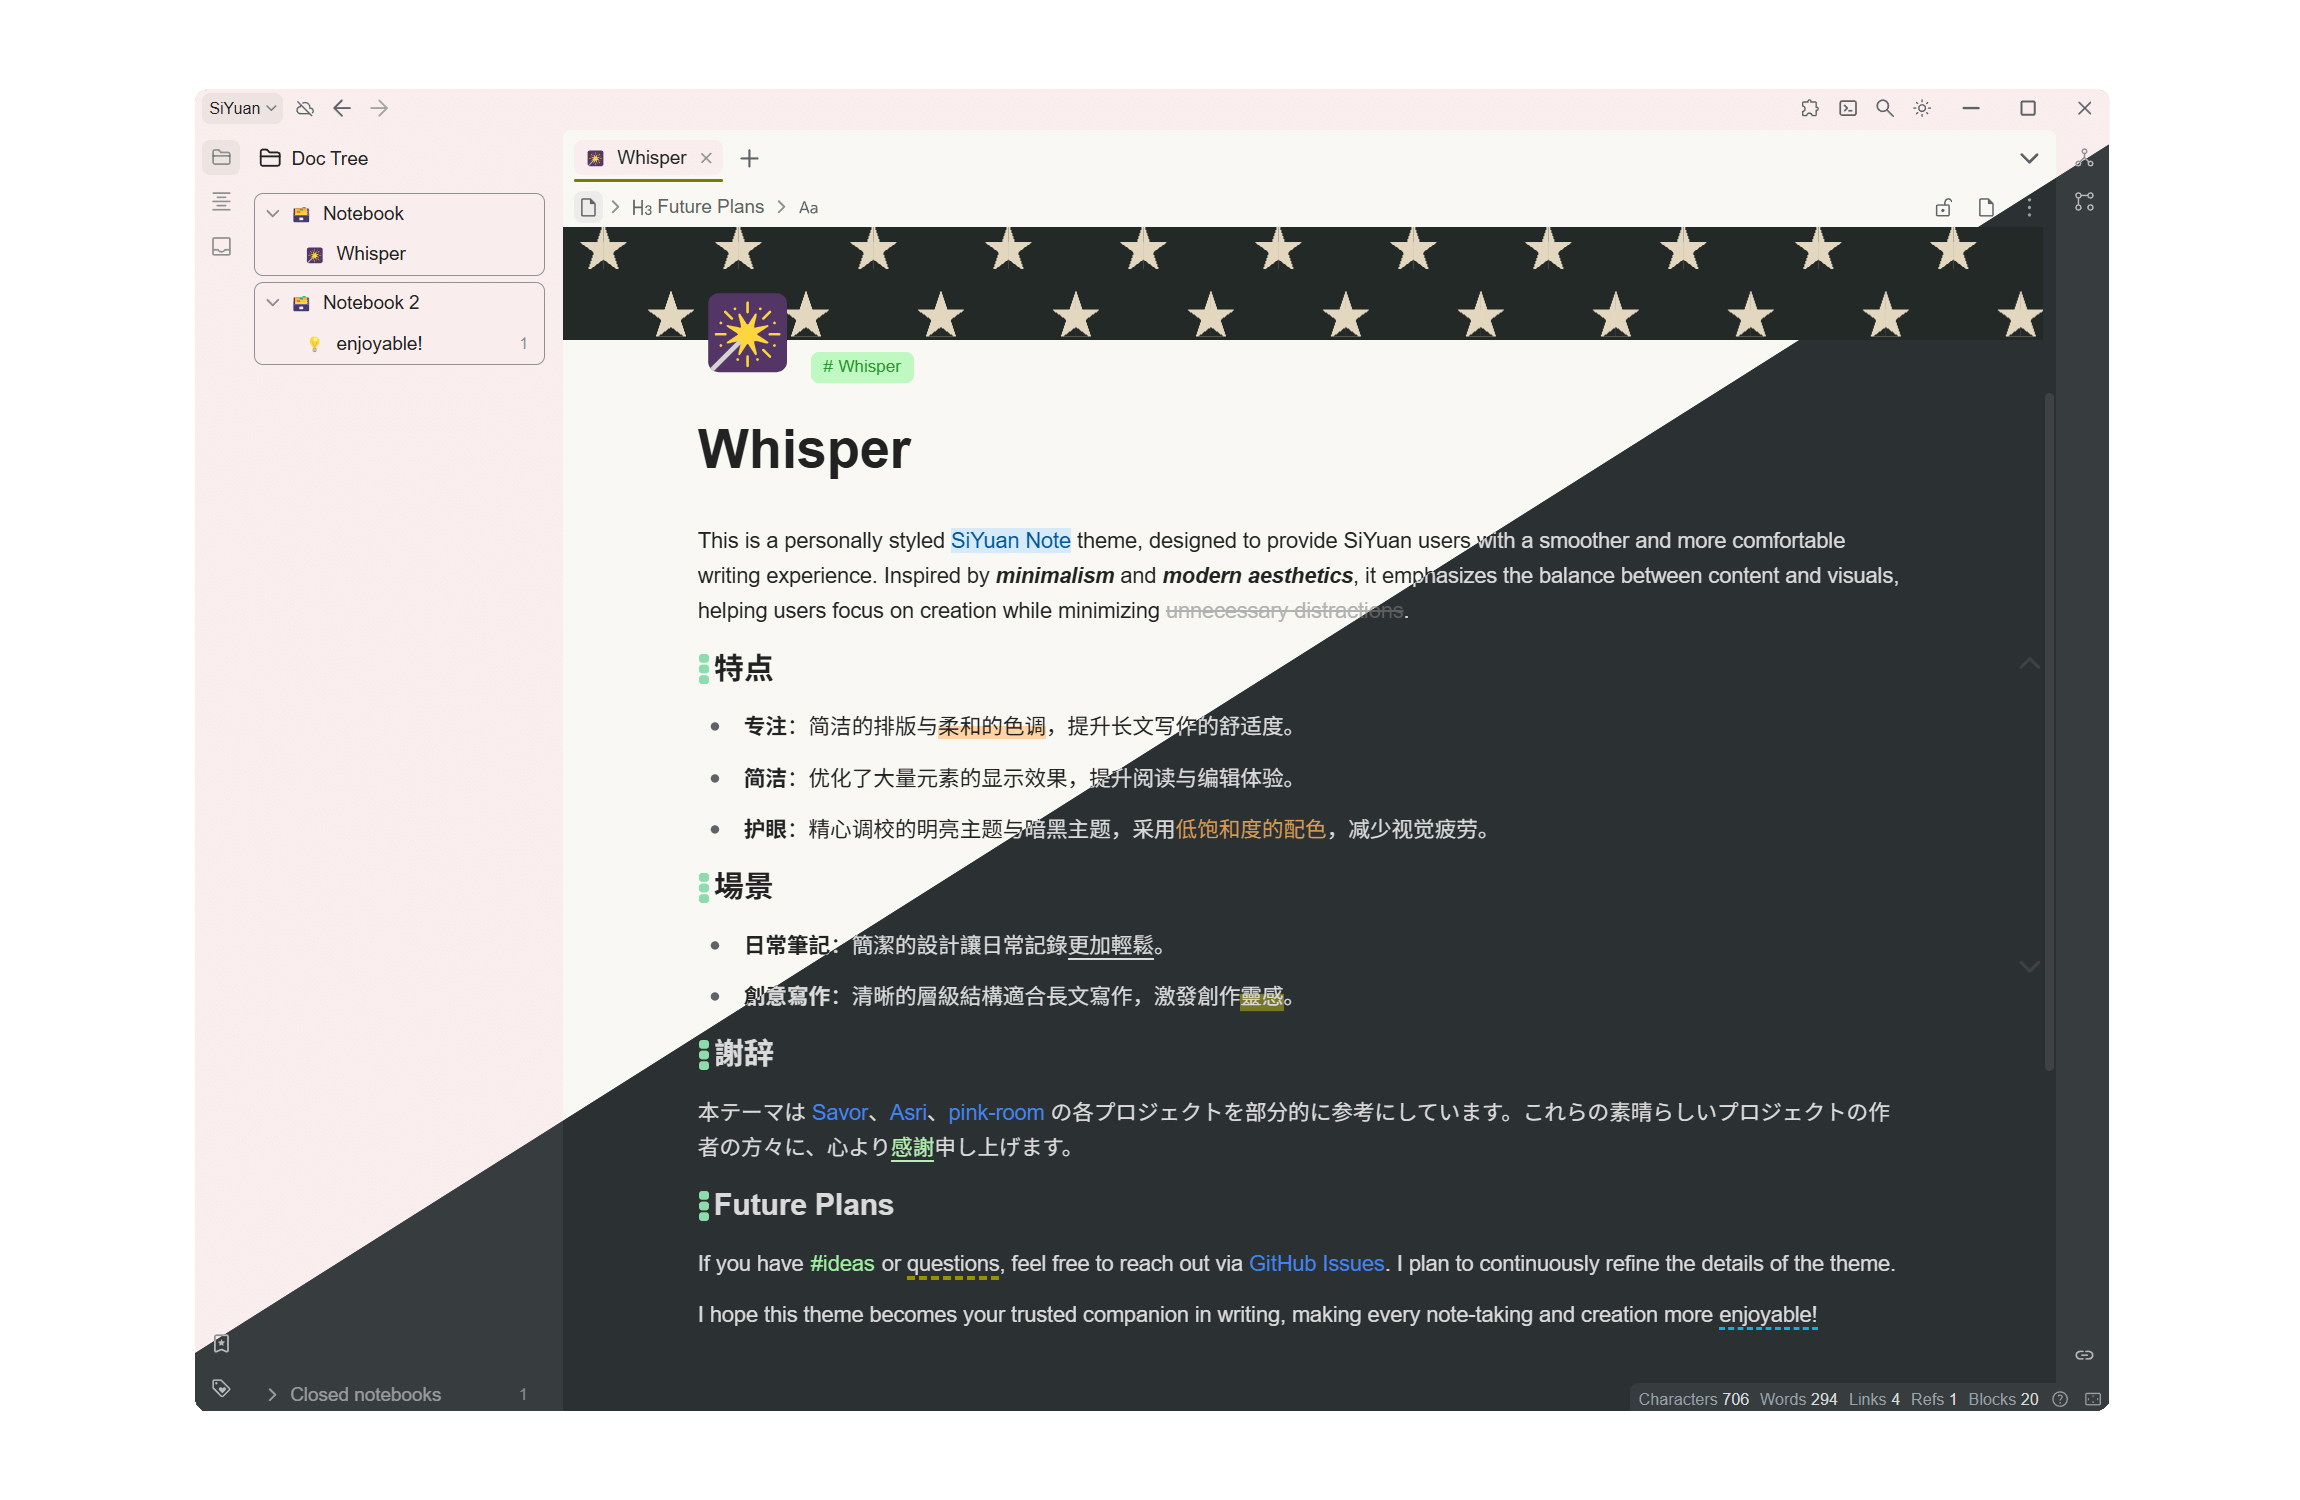
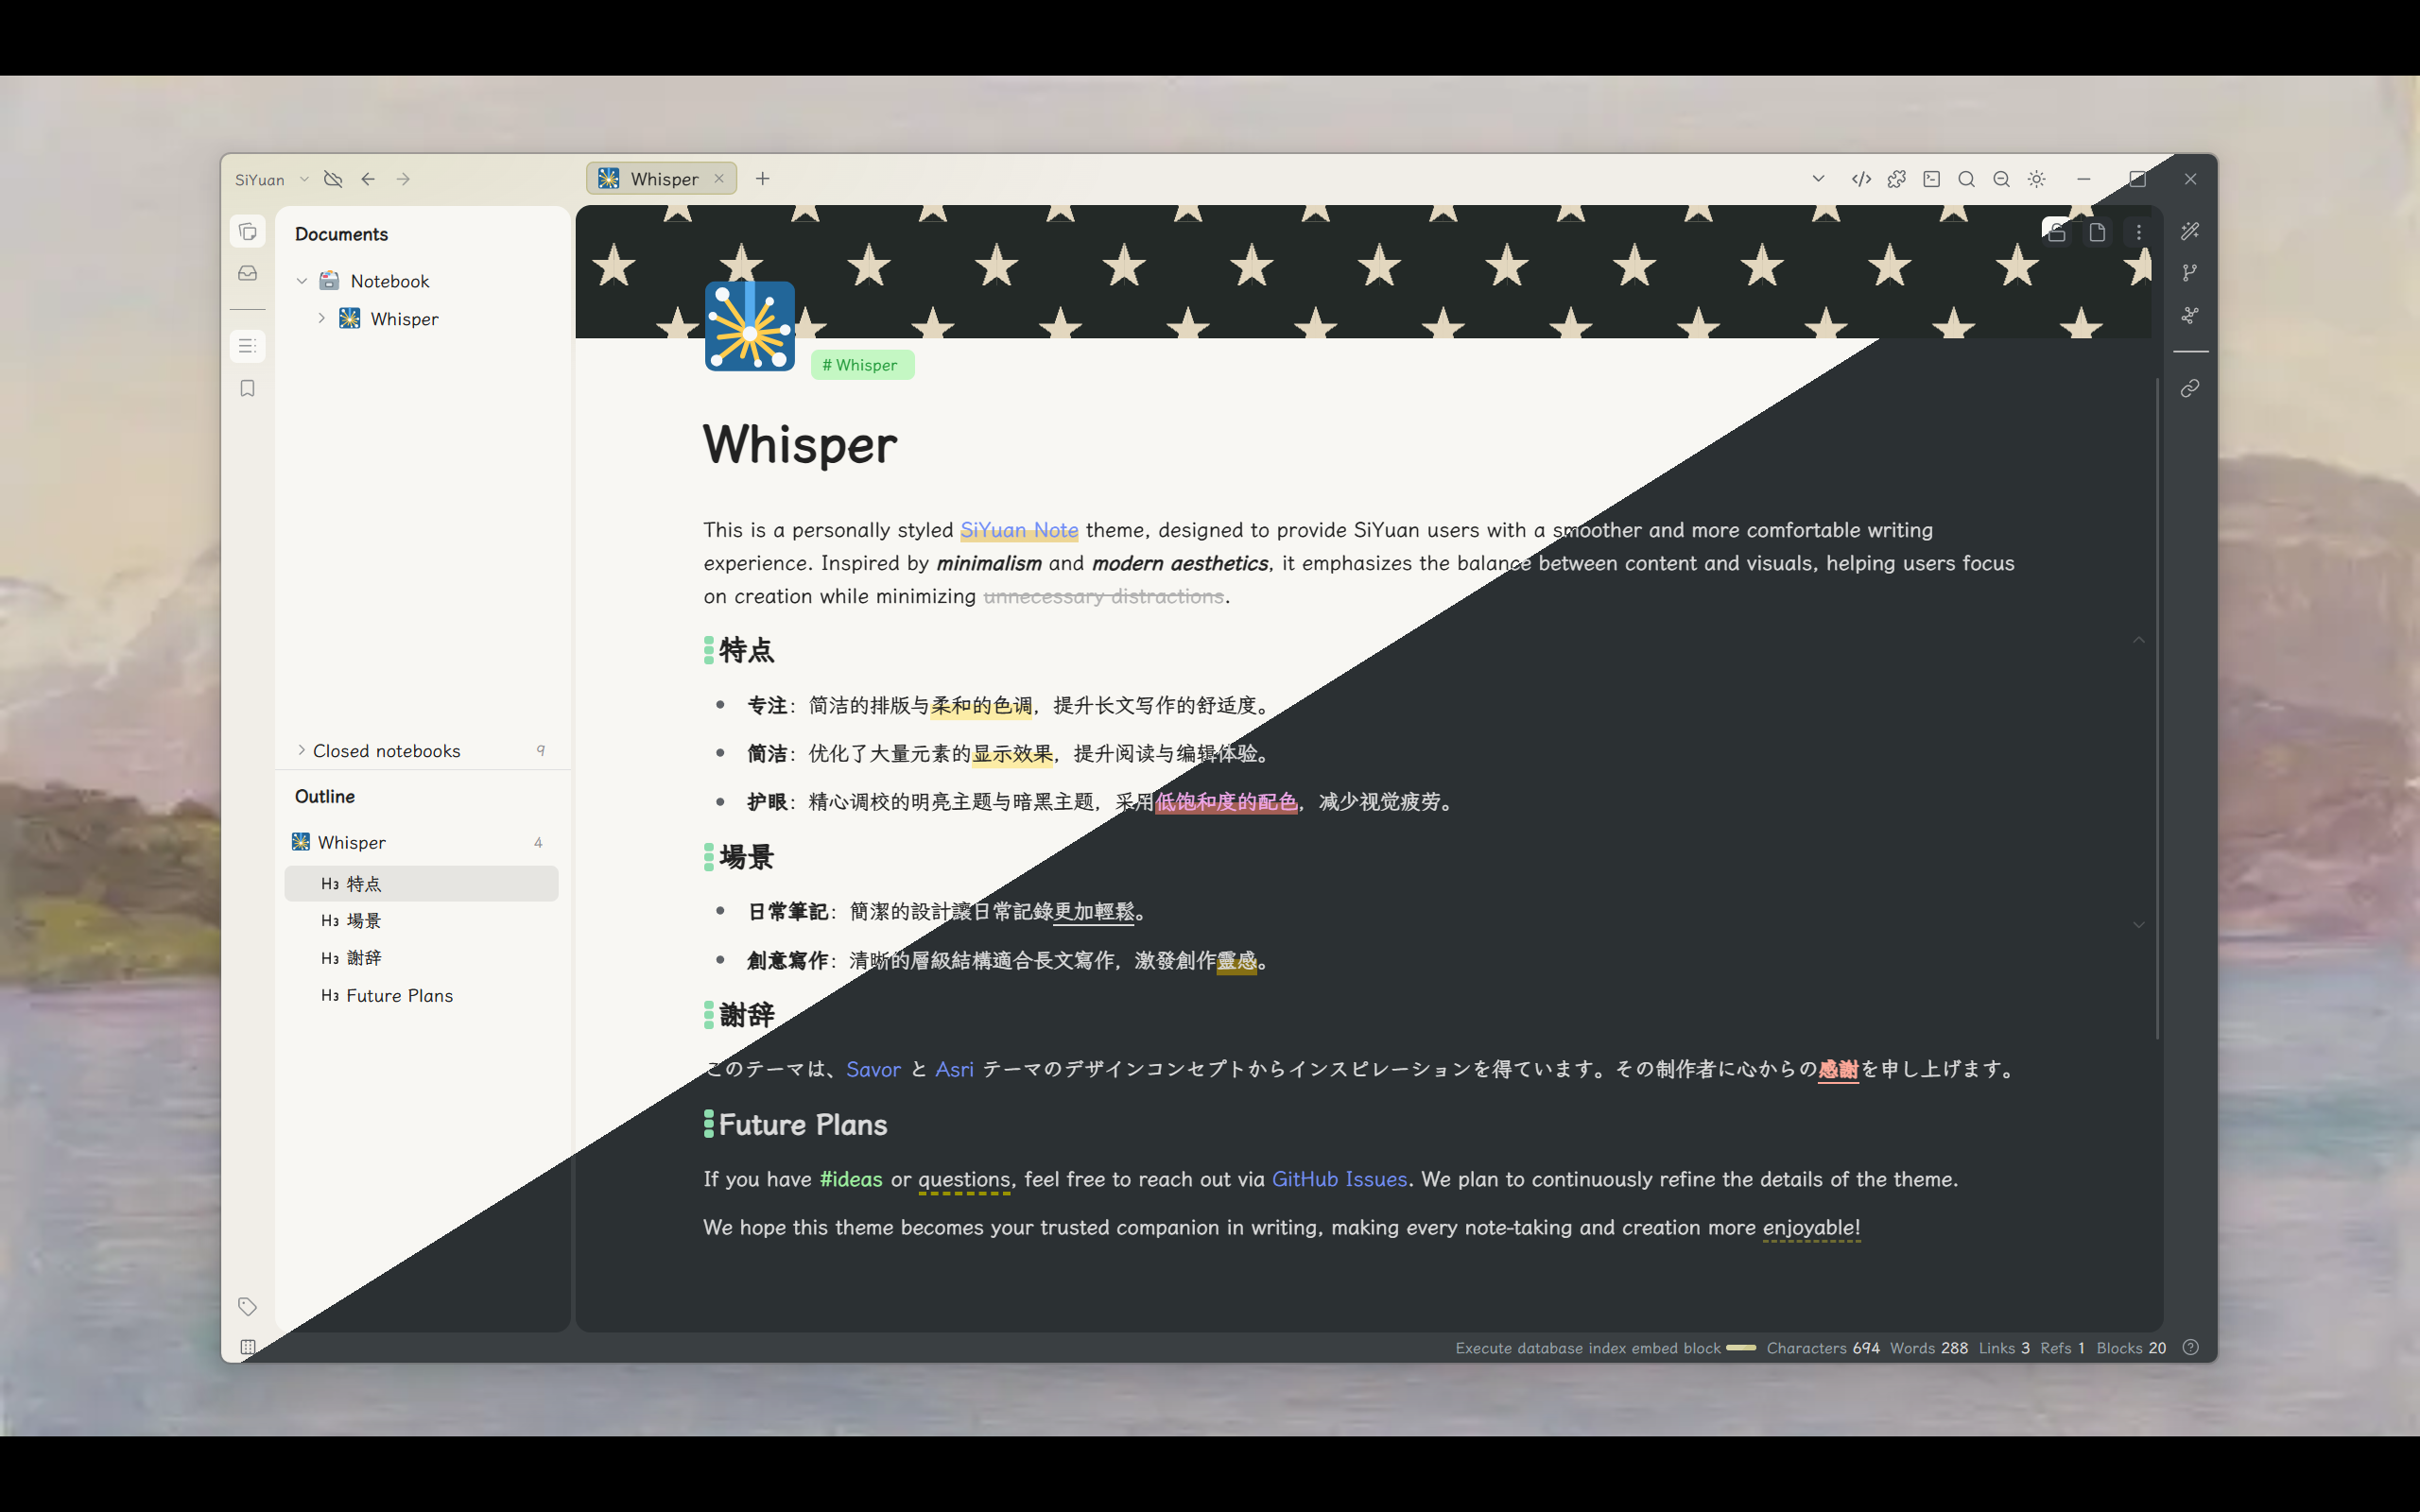
更换预览图

diff --git a/tools/img.py b/tools/img.py
@@ -7,7 +7,12 @@ import os
 # 配置日志
 logging.basicConfig(level=logging.INFO, format='%(asctime)s - %(levelname)s - %(message)s')
 
-def Image_Merge(left_image_path, right_image_path, is_save=True):
+# 以脚本所在目录为基准，定位到主题根目录下的 image-material
+_ROOT = os.path.dirname(os.path.dirname(os.path.abspath(__file__)))
+_MATERIAL = os.path.join(_ROOT, 'image-material')
+
+
+def Image_Merge(left_image_path, right_image_path, output_path, is_save=True):
     try:
         # 打开两张图片，并转成RGBA格式，用于调整透明图层
         logging.info(f"正在打开图片: {right_image_path} 和 {left_image_path}")
@@ -26,10 +31,10 @@ def Image_Merge(left_image_path, right_image_path, is_save=True):
 
         w, h = image1.size
 
-        # 对vi图片作为背景，创建一个绘图对象
+        # 对 vi 图片作为背景，创建一个绘图对象
         draw = ImageDraw.Draw(image1)
 
-        # 绘制一个斜对角线的三角形，即左上角的三角形，设置透明度为0
+        # 绘制一个斜对角线的三角形，即左上角的三角形，设置透明度为 0
         logging.info("正在绘制透明三角形...")
         draw.polygon([(0, 0), (w, 0), (0, h)], fill=(0, 0, 0, 0))
 
@@ -42,8 +47,6 @@ def Image_Merge(left_image_path, right_image_path, is_save=True):
         # draw.line([w, 0, 0, h], fill="white", width=3)
 
         if is_save:
-            # 保存图片为PNG格式
-            output_path = r'D:\Admin\Downloads\result.png'
             logging.info(f"正在保存图片到: {output_path}")
             result.save(output_path)
             logging.info(f"图片保存成功！路径: {os.path.abspath(output_path)}")
@@ -57,7 +60,8 @@ def Image_Merge(left_image_path, right_image_path, is_save=True):
         input("按 Enter 键退出...")
 
 
-# 两张图片的路径
-right_image_path = r'D:\Admin\Downloads\暗黑主题.jpg'  # 右下角
-left_image_path = r'D:\Admin\Downloads\明亮主题.jpg'  # 左上角
-Image_Merge(left_image_path, right_image_path, is_save=True)
+# 左上角为明亮主题，右下角为暗黑主题，输出到相同目录
+left_image_path = os.path.join(_MATERIAL, 'preview-light.png')
+right_image_path = os.path.join(_MATERIAL, 'preview-dark.png')
+output_path = os.path.join(_MATERIAL, 'preview.png')
+Image_Merge(left_image_path, right_image_path, output_path, is_save=True)

diff --git a/README.zh-CN.md b/README.zh-CN.md
@@ -1,4 +1,4 @@
-> 近期更新：适配原生 Callout 块；主题从 v1.7 版本开始进行一些重构，如遇样式问题，敬请[反馈](https://github.com/TCOTC/Whisper/issues)
+> 近期更新：全面适配思源笔记 v3.7 版本
 
 这是一款具有个人风格的思源笔记主题，致力于为思源用户提供更流畅、更舒适的写作体验。设计灵感来源于极简主义和现代美学，注重内容与视觉的平衡，帮助用户专注于创作，减少不必要的干扰。
 